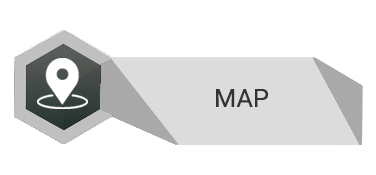
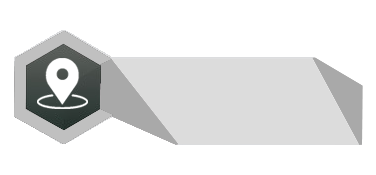
merge source

Changed region(s): [[0.5559, 0.4857, 0.7314, 0.6286]]

diff --git a/App.js b/App.js
@@ -6,19 +6,20 @@ import HomeScreen from './components/HomeScreen'
 // import SoundModal from "./components/audio/soundModal"
 import MapSearch from './components/search/mapSearch';
 import LoginScreen from './components/LoginScreen';
-
+import MannarFortScreen from './components/screens/MannarFortScreen'
 export default class App extends Component {
   render() {
     return (
       <>
           {/* <SoundModal/> */}
-          <Home/>
+          {/* <Home/> */}
           {/* <HomeScreen/> */}
         {/* <LoginMap/> */}
         {/* <LoginScreen/> */}
         {/* <Test/> */}
           {/* <MapSearch></MapSearch> */}
           {/* <Seekbar></Seekbar> */}
+          <MannarFortScreen/>
       </>
     )
   }

diff --git a/components/screens/LoginScreen.js b/components/screens/LoginScreen.js
@@ -11,7 +11,7 @@ export default class LoginScreen extends Component {
     return (
    <View style={{flex: 1, backgroundColor: "#ffffff"}}>
             <View style={Styles.imageView}>
-                {/* <Image source={require("../../assets/img/login_bg.png")} style={Styles.lakecropped}/> */}
+                <Image source={require("../../assets/img/login.png")} style={Styles.lakecropped}/>
               
               
             </View>

diff --git a/components/screens/HomeScreen.js b/components/screens/HomeScreen.js
@@ -5,6 +5,9 @@ import { View,Text, StyleSheet, Image, Dimensions, TouchableOpacity } from 'reac
 import React, { Component } from 'react';
 
 export default class HomeScreen extends Component {
+   static navigationOptions = {
+      header: null,
+    };
   render() {
   
     return (
